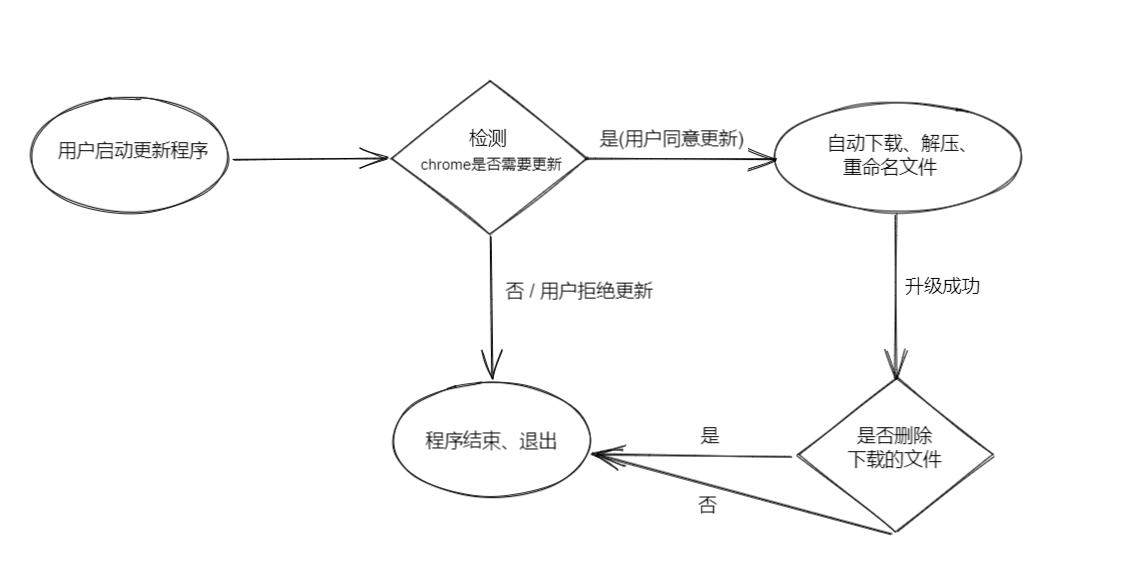
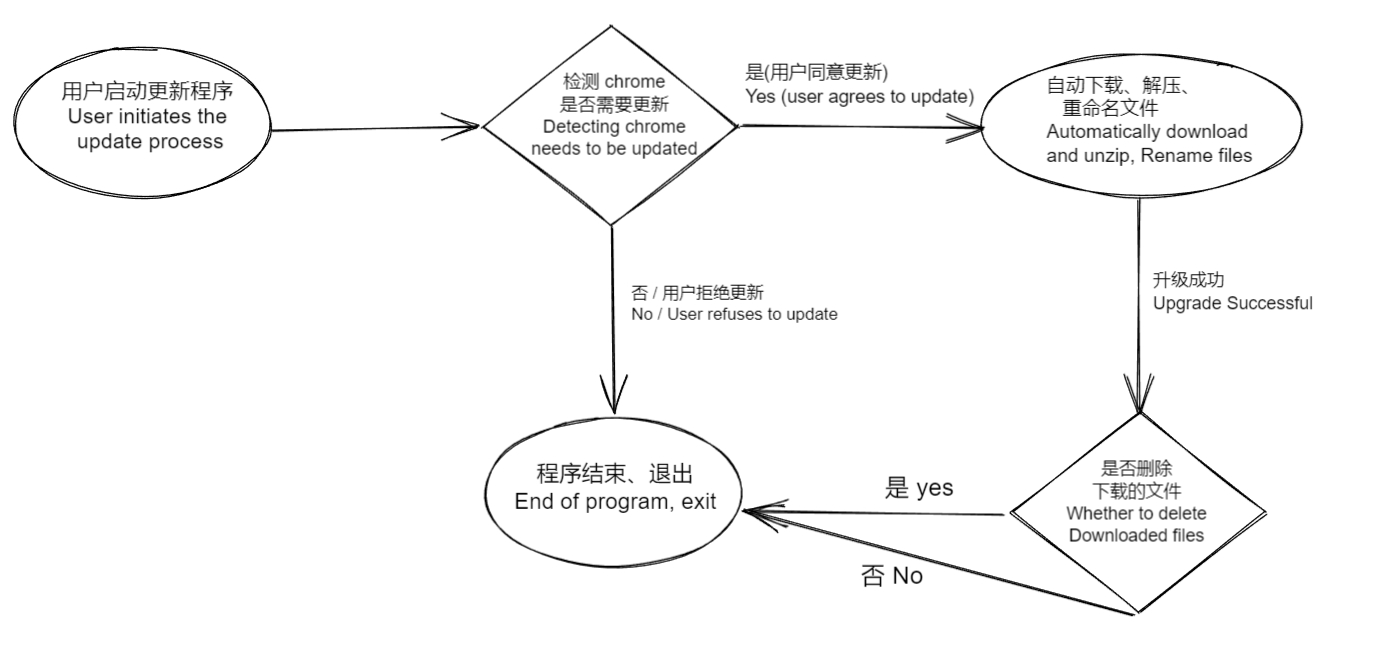
feat：英文 readme

diff --git a/readme.md b/readme.md
@@ -1,64 +1,67 @@
 ## thorium-win-upgrade
 
-> 一个可以升级 [Thorium](https://thorium.rocks/)  的工具
+<p align="center">
+    <br> English | <a href="README-CN.md">中文</a>
+</p>
+
+> A tool to upgrade the Thorium Browser
 
 > [github](https://github.com/hezhizheng/thorium-win-upgrade)
 
-### 功能
-- 简单交互式操作
-- 自动检测最新的 `Thorium` 版本
-- 用户决定是否进行升级操作(自动下载、解压、重命名文件等)
-- windows下 配合.bat文件 实现开机自动检测更新功能
+### Features
+- Simple and interactive operation
+- Automatically detects the latest Thorium version
+- Upgrade operations (automatic download, unzipping, renaming of files, etc.) at the user's discretion
+- Windows with the .bat file to realize the boot automatically detect the update function
 
-### 流程
+### Workflows
 ![free-pic](./images/1.png)
 
 
-### 使用
-自定义config.json配置文件(thorium 的安装目录)
+### Used
+Custom config.json configuration file (thorium installation directory)
 
-例：假如我的 thorium 安装解压目录为
+Example: If my thorium installation is unpacked in the directory
 
 ![free-pic](./images/2.png)
 
-那么 local_chrome_path 就定义为 `D:\test1107\thorium`。如下：
+Then local_chrome_path is defined as D:\test1107\thorium. as follows:
 ```
-# 参数说明
+# Parameter description
 {
   "app": {
     "local_chrome_path": "D:\\test1107\\thorium"
     ,"proxy_url": ""
   }
 }
-- proxy_url： 下载代理，检查最新版本跟下载可能需要翻墙，如程序有错误抛出，请尝试使用代理(http://127.0.0.1:7890)解决(不使用代理则无需配置该项，或者设置为空字符串)。
-- local_chrome_path：本地 thorium 的安装路径
+- proxy_url： Download the proxy. Check the latest version and download. You may need to bypass the firewall. If the program throws an error, please try to use the proxy (http://127.0.0.1:7890) to solve the problem. (If you do not use a proxy, you do not need to configure this item, or set it to empty. string).
+- local_chrome_path：Local thorium installation path
 ```
 
-编译 (提供编译好的文件 thorium-win-upgrade.7z
-下载 [releases](https://github.com/hezhizheng/thorium-win-upgrade/releases) )
+Compile (provides compiled file thorium-win-upgrade.7z download [releases](https://github.com/hezhizheng/thorium-win-upgrade/releases) )
 
-手动编译
+Manual compilation
 ```
 go build -ldflags "-s -w" -gcflags="all=-trimpath=${PWD}" -asmflags="all=-trimpath=${PWD}"
 ```
 
-运行
-- 请不要随意更改`thorium`原本的目录结构
-- 保证编译的文件与 config.json、7z.dll、7z.exe 文件 在同级目录
-- 执行 ./thorium-win-upgrade.exe 或者双击启动，根据提示输入指令完成升级
+Run Before
+- Do not change the original directory structure of `thorium`.
+- Ensure that the compiled files are in the same directory as the config.json, 7z.dll, and 7z.exe files.
+- Execute . /thorium-win-upgrade.exe or double-click to launch it and follow the prompts to enter commands to complete the upgrade
 
-升级
+Upgrade
 
 ![free-pic](./images/4.png)
 ![free-pic](./images/6.png)
 
 
-无需升级
+No upgrade required
 
 ![free-pic](./images/3.png)
 
-windows 开机自动检测(创建.bat文件)
+windows boot auto-detect (create .bat file)
 
 [./thorium-win-upgrade.bat](./thorium-win-upgrade.bat)
 
-创建快捷方式，设定开机自启即可
+Just create a shortcut and set it to boot up

diff --git a/README-CN.md b/README-CN.md
@@ -1,0 +1,64 @@
+## thorium-win-upgrade
+
+> 一个可以升级 [Thorium Browser ](https://thorium.rocks/)  的工具
+
+> [github](https://github.com/hezhizheng/thorium-win-upgrade)
+
+### 功能
+- 简单交互式操作
+- 自动检测最新的 `Thorium` 版本
+- 用户决定是否进行升级操作(自动下载、解压、重命名文件等)
+- windows下 配合.bat文件 实现开机自动检测更新功能
+
+### 流程
+![free-pic](./images/1.png)
+
+
+### 使用
+自定义config.json配置文件(thorium 的安装目录)
+
+例：假如我的 thorium 安装解压目录为
+
+![free-pic](./images/2.png)
+
+那么 local_chrome_path 就定义为 `D:\test1107\thorium`。如下：
+```
+# 参数说明
+{
+  "app": {
+    "local_chrome_path": "D:\\test1107\\thorium"
+    ,"proxy_url": ""
+  }
+}
+- proxy_url： 下载代理，检查最新版本跟下载可能需要翻墙，如程序有错误抛出，请尝试使用代理(http://127.0.0.1:7890)解决(不使用代理则无需配置该项，或者设置为空字符串)。
+- local_chrome_path：本地 thorium 的安装路径
+```
+
+编译 (提供编译好的文件 thorium-win-upgrade.7z
+下载 [releases](https://github.com/hezhizheng/thorium-win-upgrade/releases) )
+
+手动编译
+```
+go build -ldflags "-s -w" -gcflags="all=-trimpath=${PWD}" -asmflags="all=-trimpath=${PWD}"
+```
+
+运行
+- 请不要随意更改`thorium`原本的目录结构
+- 保证编译的文件与 config.json、7z.dll、7z.exe 文件 在同级目录
+- 执行 ./thorium-win-upgrade.exe 或者双击启动，根据提示输入指令完成升级
+
+升级
+
+![free-pic](./images/4.png)
+![free-pic](./images/6.png)
+
+
+无需升级
+
+![free-pic](./images/3.png)
+
+windows 开机自动检测(创建.bat文件)
+
+[./thorium-win-upgrade.bat](./thorium-win-upgrade.bat)
+
+创建快捷方式，设定开机自启即可
